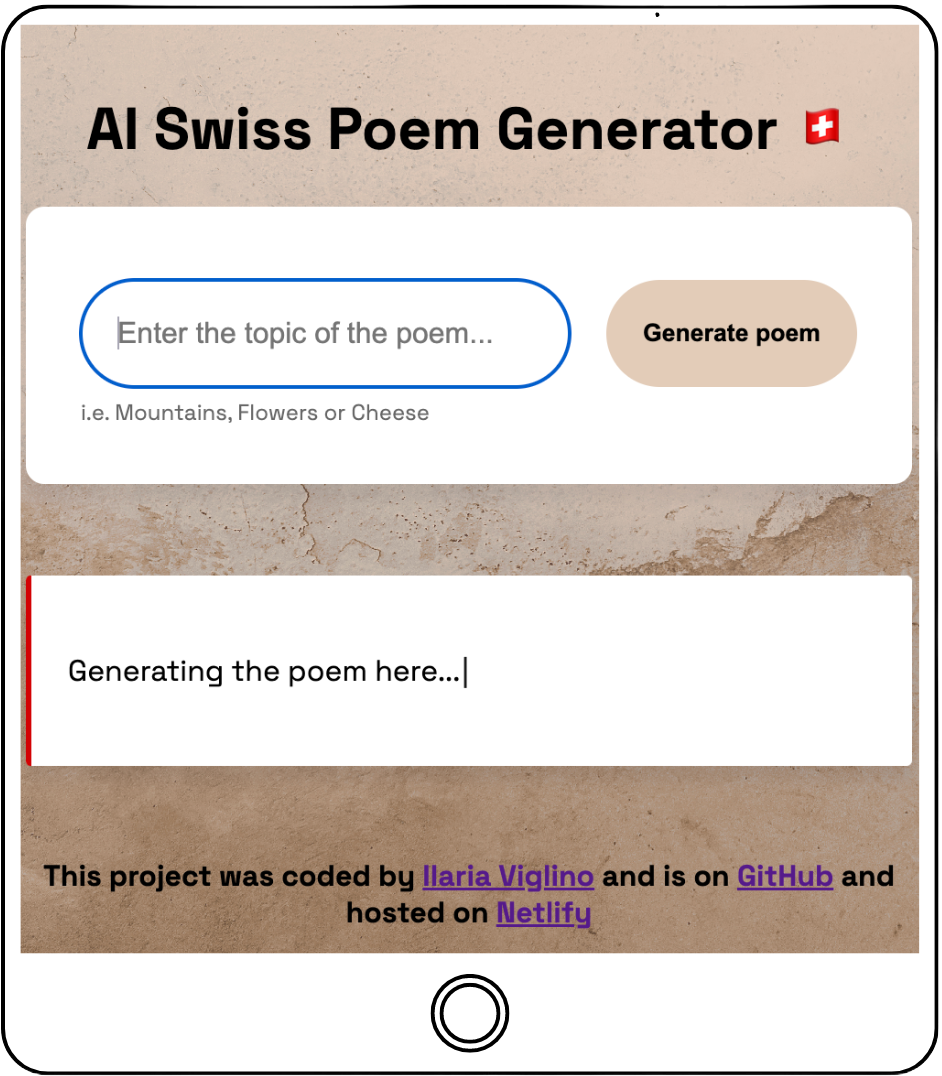
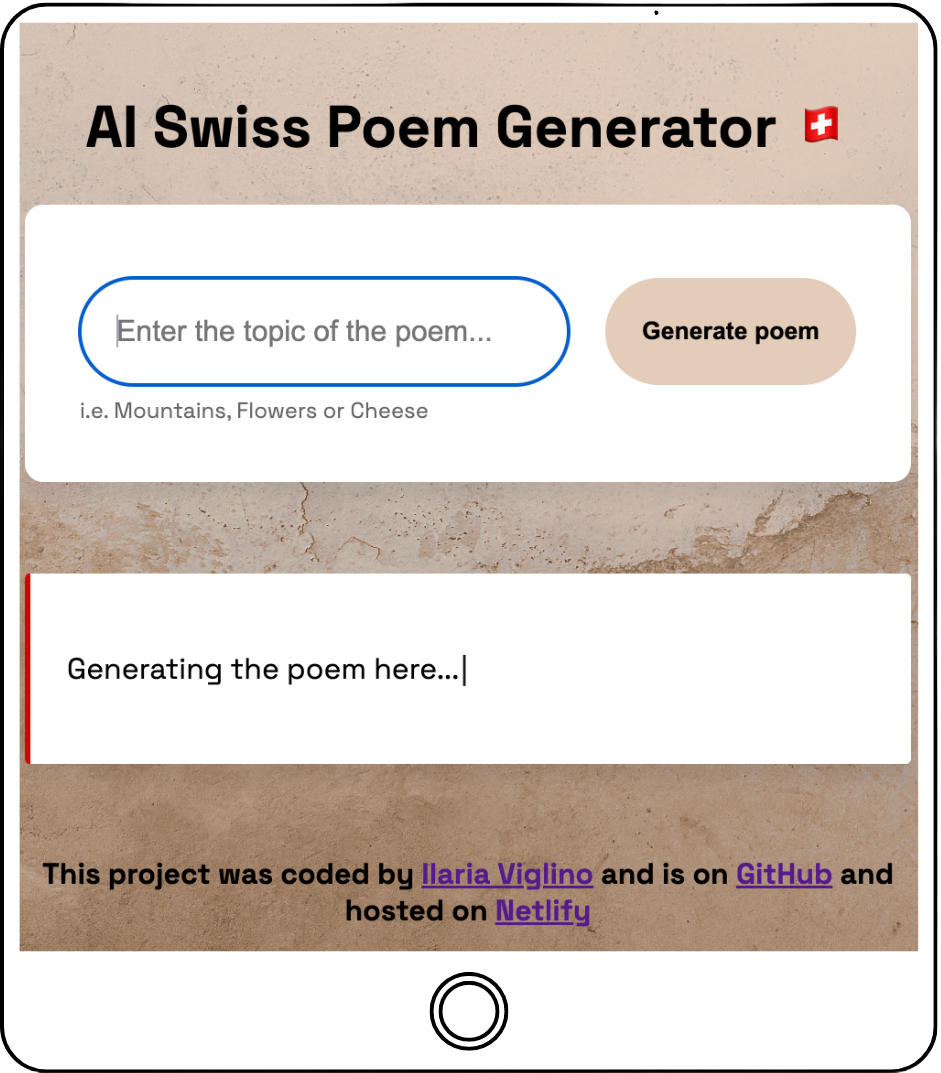
Responsive

diff --git a/index.html b/index.html
@@ -11,14 +11,14 @@
     <link href="https://fonts.googleapis.com/css2?family=Poppins:ital,wght@0,100;0,200;0,300;0,400;0,500;0,600;0,700;0,800;0,900;1,100;1,200;1,300;1,400;1,500;1,600;1,700;1,800;1,900&display=swap" rel="stylesheet">
     <link href="https://cdn.jsdelivr.net/npm/bootstrap@5.3.3/dist/css/bootstrap.min.css" rel="stylesheet" integrity="sha384-QWTKZyjpPEjISv5WaRU9OFeRpok6YctnYmDr5pNlyT2bRjXh0JMhjY6hW+ALEwIH" crossorigin="anonymous">
 <script src="https://cdn.jsdelivr.net/npm/bootstrap@5.3.3/dist/js/bootstrap.bundle.min.js" integrity="sha384-YvpcrYf0tY3lHB60NNkmXc5s9fDVZLESaAA55NDzOxhy9GkcIdslK1eN7N6jIeHz" crossorigin="anonymous"></script>
-    <title>Document</title>
+    <title>Ilaria Viglino - Portfolio</title>
     <link rel="stylesheet" href="style.css"/>
 </head>
 <body>
     <div id="container">
         <nav class="navbar navbar-light navbar-expand-lg bg-faded justify-content-center fixed-top">
             <div class="container-fluid">
-            <a href="#" class="navbar-brand"><img  alt="" src="img/logoNoBackground.png" class="img-fluid " width="40"/>
+            <a href="index.html" class="navbar-brand"><img  alt="" src="img/logoNoBackground.png" class="img-fluid " width="40"/>
             </a>
             <button
           class="navbar-toggler"
@@ -35,23 +35,26 @@
                 
                 <ul class="nav navbar-nav ml-auto w-100 justify-content-end">
                     <li class="nav-item">
-                        <a class="nav-link" href="#">Home</a>
+                        <a class="nav-link" href="index.html">Home</a>
                     </li>
                     <li class="nav-item">
-                        <a class="nav-link" href="#">About</a>
+                        <a class="nav-link" href="about.html">About</a>
                     </li>
                     <li class="nav-item dropdown">
                         <a class="nav-link dropdown-toggle" href="#" role="button" data-bs-toggle="dropdown" aria-expanded="false">
                           My Works
                         </a>
                         <ul class="dropdown-menu">
-                          <li><a class="dropdown-item" href="#">Weather app</a></li>
-                          <li><a class="dropdown-item" href="#">World clock app</a></li>
-                          <li><a class="dropdown-item" href="#">Poem generator</a></li>
+                          <li><a target="_blank" class="dropdown-item" href="https://www.shecodes.io/cohorts/1637/projects/2153183?_gl=1*w052gg*_gcl_aw*R0NMLjE3MTM3OTY0NzEuQ2owS0NRandsWml4QmhDb0FSSXNBSUM3NDVENGtzYjh2M3Vlb2otX0hrcDgxUk9qbVo0dU5JT1h0Zy1jLXhPZzNMVTNsR1RMSU80Z3REVWFBckNDRUFMd193Y0I.*_gcl_au*MTA3MDY1MTczNC4xNzExNzM5NDA2LjIxMDUwNTk4OTUuMTcxMzgwNjQ4OS4xNzEzODA2NDkw"
+                            >Weather app</a></li>
+                          <li><a target="_blank" class="dropdown-item" href="https://www.shecodes.io/cohorts/1752/projects/2175798?_gl=1*1b7ysn2*_gcl_aw*R0NMLjE3MTM3OTY0NzEuQ2owS0NRandsWml4QmhDb0FSSXNBSUM3NDVENGtzYjh2M3Vlb2otX0hrcDgxUk9qbVo0dU5JT1h0Zy1jLXhPZzNMVTNsR1RMSU80Z3REVWFBckNDRUFMd193Y0I.*_gcl_au*MTA3MDY1MTczNC4xNzExNzM5NDA2LjIxMDUwNTk4OTUuMTcxMzgwNjQ4OS4xNzEzODA2NDkw"
+                            >World clock app</a></li>
+                          <li><a target="_blank" class="dropdown-item" href="https://www.shecodes.io/cohorts/1783/projects/2196013?_gl=1*1fwjrbw*_gcl_aw*R0NMLjE3MTM3OTY0NzEuQ2owS0NRandsWml4QmhDb0FSSXNBSUM3NDVENGtzYjh2M3Vlb2otX0hrcDgxUk9qbVo0dU5JT1h0Zy1jLXhPZzNMVTNsR1RMSU80Z3REVWFBckNDRUFMd193Y0I.*_gcl_au*MTA3MDY1MTczNC4xNzExNzM5NDA2LjIxMDUwNTk4OTUuMTcxMzgwNjQ4OS4xNzEzODA2NDkw"
+                            >Poem generator</a></li>
                         </ul>
                       </li>
                     <li class="nav-item">
-                        <a class="nav-link" href="#">Contact</a>
+                        <a class="nav-link" href="contact.html">Contact</a>
                     </li>
                 </ul>
             </div>
@@ -64,32 +67,38 @@
     <h3>Based in Switzerland, EU</h3>
 </header>
 <main>
-<h4 class="text-center">My projects</h4>
+<h4 class="text-center" id="my-projects">My projects</h4>
 <div class="container text-center">
-    <div class="row ">
-      <div class="col col-md-6">
+    <div class="row justify-content-sm-center">
+      <div class="col-12 col-md-6" id="project">
         <div class="text-center mb-4 project-title">The weather app</div>
-       <a href="#" ><img  alt="" src="img/weatherLap.png" class="img-fluid " width=""/></a>
+       <a target="_blank" href="https://www.shecodes.io/cohorts/1637/projects/2153183?_gl=1*w052gg*_gcl_aw*R0NMLjE3MTM3OTY0NzEuQ2owS0NRandsWml4QmhDb0FSSXNBSUM3NDVENGtzYjh2M3Vlb2otX0hrcDgxUk9qbVo0dU5JT1h0Zy1jLXhPZzNMVTNsR1RMSU80Z3REVWFBckNDRUFMd193Y0I.*_gcl_au*MTA3MDY1MTczNC4xNzExNzM5NDA2LjIxMDUwNTk4OTUuMTcxMzgwNjQ4OS4xNzEzODA2NDkw" ><img  alt="" src="img/weatherLap.png" class="img-fluid d-none d-md-block" width=""/></a>
         <p class="mt-4">Lorem ipsum dolor sit amet consectetur adipisicing elit. Perferendis quia, dignissimos nam ratione veniam quibusdam porro.</p>
+        <a target="_blank" href="https://www.shecodes.io/cohorts/1637/projects/2153183?_gl=1*w052gg*_gcl_aw*R0NMLjE3MTM3OTY0NzEuQ2owS0NRandsWml4QmhDb0FSSXNBSUM3NDVENGtzYjh2M3Vlb2otX0hrcDgxUk9qbVo0dU5JT1h0Zy1jLXhPZzNMVTNsR1RMSU80Z3REVWFBckNDRUFMd193Y0I.*_gcl_au*MTA3MDY1MTczNC4xNzExNzM5NDA2LjIxMDUwNTk4OTUuMTcxMzgwNjQ4OS4xNzEzODA2NDkw" ><button id="launch-app-button" class="mx-auto">Launch weather app</button></a>
+    </div>
+      <div class="col-12 col-md-6" id="project">
+        <div class="text-center mb-4 project-title">The world clock app</div>
+        <a target="_blank" href="https://www.shecodes.io/cohorts/1752/projects/2175798?_gl=1*1b7ysn2*_gcl_aw*R0NMLjE3MTM3OTY0NzEuQ2owS0NRandsWml4QmhDb0FSSXNBSUM3NDVENGtzYjh2M3Vlb2otX0hrcDgxUk9qbVo0dU5JT1h0Zy1jLXhPZzNMVTNsR1RMSU80Z3REVWFBckNDRUFMd193Y0I.*_gcl_au*MTA3MDY1MTczNC4xNzExNzM5NDA2LjIxMDUwNTk4OTUuMTcxMzgwNjQ4OS4xNzEzODA2NDkw" > <img  alt="" src="img/worldClockLap.png" class="img-fluid d-none d-md-block" width=""/></a>
+<p class="mt-4">Lorem ipsum dolor sit amet consectetur adipisicing elit. Perferendis quia, dignissimos nam ratione veniam quibusdam porro.</p>
+<a target="_blank" href="https://www.shecodes.io/cohorts/1752/projects/2175798?_gl=1*1b7ysn2*_gcl_aw*R0NMLjE3MTM3OTY0NzEuQ2owS0NRandsWml4QmhDb0FSSXNBSUM3NDVENGtzYjh2M3Vlb2otX0hrcDgxUk9qbVo0dU5JT1h0Zy1jLXhPZzNMVTNsR1RMSU80Z3REVWFBckNDRUFMd193Y0I.*_gcl_au*MTA3MDY1MTczNC4xNzExNzM5NDA2LjIxMDUwNTk4OTUuMTcxMzgwNjQ4OS4xNzEzODA2NDkw" ><button id="launch-app-button" class="mx-auto">Launch world clock app</button></a>
+      
+</div>
+
+    <div class="row justify-content-sm-center"></div>
+      <div class="col-12 col-md-6 mt-md-4" id="project">
+        <div class="text-center mb-4 project-title">The poem generator</div>
+       <div> <a target="_blank" href="https://www.shecodes.io/cohorts/1783/projects/2196013?_gl=1*1fwjrbw*_gcl_aw*R0NMLjE3MTM3OTY0NzEuQ2owS0NRandsWml4QmhDb0FSSXNBSUM3NDVENGtzYjh2M3Vlb2otX0hrcDgxUk9qbVo0dU5JT1h0Zy1jLXhPZzNMVTNsR1RMSU80Z3REVWFBckNDRUFMd193Y0I.*_gcl_au*MTA3MDY1MTczNC4xNzExNzM5NDA2LjIxMDUwNTk4OTUuMTcxMzgwNjQ4OS4xNzEzODA2NDkw"> <img  id="poem-img" src="img/poemIpad.png" class=" img-fluid " width="400"/></a></div>
+        <p class="mt-4">Lorem ipsum dolor sit amet consectetur adipisicing elit. Perferendis quia, dignissimos nam ratione veniam quibusdam porro.</p>
+        <a target="_blank" href="https://www.shecodes.io/cohorts/1783/projects/2196013?_gl=1*1fwjrbw*_gcl_aw*R0NMLjE3MTM3OTY0NzEuQ2owS0NRandsWml4QmhDb0FSSXNBSUM3NDVENGtzYjh2M3Vlb2otX0hrcDgxUk9qbVo0dU5JT1h0Zy1jLXhPZzNMVTNsR1RMSU80Z3REVWFBckNDRUFMd193Y0I.*_gcl_au*MTA3MDY1MTczNC4xNzExNzM5NDA2LjIxMDUwNTk4OTUuMTcxMzgwNjQ4OS4xNzEzODA2NDkw">  <button id="launch-app-button" class="mx-auto">Launch poem generator</button></a>
   
     </div>
-      <div class="col col-md-6">
-        <div class="text-center mb-4 project-title">The world clock app</div>
-        <a href="#" > <img  alt="" src="img/worldClockLap.png" class="img-fluid " width=""/></a>
-<p class="mt-4">Lorem ipsum dolor sit amet consectetur adipisicing elit. Perferendis quia, dignissimos nam ratione veniam quibusdam porro.</p>
-      </div>
-      <div class="col col-md-6 mt-5">
-        <div class="text-center mb-4 project-title">The poem generator</div>
-        <a href="#" > <img  alt="" src="img/poemIpad.png" class="img-fluid " width="400"/></a>
-        <p class="mt-4">Lorem ipsum dolor sit amet consectetur adipisicing elit. Perferendis quia, dignissimos nam ratione veniam quibusdam porro.</p>
 
-      </div>
-      <div class="col col-md-6">
-        <button class="mx-auto">Contact me</button>
+      <div class="col-12 col-md-6">
+       <a class="link-offset-2 link-underline link-underline-opacity-0" target="_blank" href="contact.html"><button id="contact-me-button" class="mx-auto">Contact me</button></a>
       </div>
     </div>
-    
-  </div>
+</div>
+</div>
 
 </main>
 </div>
@@ -97,21 +106,23 @@
 <footer>
    <hr>
    <div class="d-flex justify-content-between" id="container-2">
+
+
     <div class="d-flex justify-content-center" id="social-media-container">
-    <div class="me-5 link"><a href="#"><img  alt="" src="img/logoNoBackground.png" class="img-fluid " width="20"/></a></div>
-      <div class="me-3 link"><a href="#"><img  alt="" src="img/linkedin.png" class="img-fluid " width="25"/></a></div> 
-      <div class="me-3 link"><a href="#"><img  alt="" src="img/github.png" class="img-fluid " width="25"/></a></div> 
-      <div class="me-3 link"><a href="#"><img  alt="" src="img/instagram.png" class="img-fluid " width="25"/></a></div> 
-      <div class="me-3 link"><a href="#"><img  alt="" src="img/facebook.png" class="img-fluid " width="25"/></a></div> 
-      <div class="me-3 link"><a href="#"><img  alt="" src="img/youtube.png" class="img-fluid " width="25"/></a></div> 
-      <div class="link"><a href="#"><img  alt="" src="img/pinterest.png" class="img-fluid " width="25"/></a></div> 
+    <div class="me-5 link"><a href="index.html"><img  alt="" src="img/logoNoBackground.png" class="img-fluid " width="20"/></a></div>
+      <div class="me-3 link"><a target="_blank" href="https://www.linkedin.com/in/ilaria-viglino-604267158/"><img  alt="" src="img/linkedin.png" class="img-fluid " width="25"/></a></div> 
+      <div class="me-3 link"><a target="_blank" href="https://github.com/IlariaViglino"><img  alt="" src="img/github.png" class="img-fluid " width="25"/></a></div> 
+      <div class="me-3 link"><a target="_blank" href="https://www.instagram.com/thrivemathdiy/"><img  alt="" src="img/instagram.png" class="img-fluid " width="25"/></a></div> 
+      <div class="me-3 link"><a target="_blank" href="https://www.facebook.com/ilaria.viglino.1"><img  alt="" src="img/facebook.png" class="img-fluid " width="25"/></a></div> 
+      <div class="me-3 link"><a target="_blank" href="https://www.youtube.com/channel/UCtJDpEPG1I0QvnrMm0N98oQ"><img  alt="" src="img/youtube.png" class="img-fluid " width="25"/></a></div> 
+      <div class="link"><a target="_blank" href="https://ch.pinterest.com/ThriveAndMathDIY/"><img  alt="" src="img/pinterest.png" class="img-fluid " width="25"/></a></div> 
         
     </div>
     <div><ul >
-       <li class="mt-2"> <a  href="#">Home</a></li>
-        <li class="mt-3"><a href="#">About</a></li>
-        <li class="mt-3"><a href="#">My Works</a></li>
-        <li class="mt-3"><a href="#">Contact</a></li>
+       <li class="mt-2"> <a href="index.html">Home</a></li>
+        <li class="mt-3"><a href="about.html">About</a></li>
+        <li class="mt-3"><a href="index.html#my-projects">My Works</a></li>
+        <li class="mt-3"><a href="contact.html">Contact</a></li>
         
       </ul></div>
    </div>

diff --git a/style.css b/style.css
@@ -29,17 +29,6 @@ body{
     background-color: var(--backround-color);
 }
 
-@media screen and (max-width: 640px) {
-   body{ margin-left: 1.5%;
-    margin-right: 1.5%;
-    margin-top: 20px;
-}
-.navbar{
-    
-   margin-left: 1.5%;
-    
-}
-  }
 
 header{
     
@@ -125,8 +114,9 @@ main img{
 main img:hover{
     transform: scale(1.1);
 }
-main button{
-   margin-top: 200px;
+
+main #contact-me-button{
+   margin-top: 150px;
     font-family: "Libre Franklin", sans-serif;
     font-weight: 600;
     font-size: 16px;
@@ -139,11 +129,27 @@ main button{
     background-color: var(--secondary-color);
     transition: all 200ms ease-in-out;
 }
-main button:hover{
+main #contact-me-button:hover{
     background-color: var(--primary-color);
     color: var(--backround-color);
 }
-
+main #launch-app-button{
+    font-family: "Libre Franklin", sans-serif;
+    font-weight: 600;
+    font-size: 12px;
+    color: white;
+    display:block;
+    padding: 10px 20px 10px 20px;
+    border-radius: 24px;
+    border: none;
+    background-color: var(--primary-color);
+    transition: all 200ms ease-in-out;
+}
+main #launch-app-button:hover{
+    background: none;
+    color: var(--secondary-color);
+    text-decoration: underline;
+}
 
 footer{
     margin-top: 80px;
@@ -177,3 +183,73 @@ footer ul a:hover{
 }
 
 
+@media screen and (max-width: 576px) {
+    body{ margin-left: 1.5%;
+     margin-right: 1.5%;
+     margin-top: 20px;
+ }
+ .navbar{
+     
+    margin-left: 1.5%;
+ }
+ #container-2 ul{
+    display: none;
+ }
+ 
+
+   }
+   @media (max-width: 800px){
+    h1{
+        font-size: 45px;
+        
+     }
+     h2{
+        font-size: 35px;
+        margin-top: 10px;
+
+     }
+     h3{
+        margin-top: 10px;
+        font-size: 25px;
+     }
+     
+     #poem-img{
+        display: none;
+    }
+    main #contact-me-button{
+        margin-top: 40px;
+        font-size: 12px;
+        color: white;
+        display:block;
+        height: 85px;
+        width: 85px;
+        border-radius: 50%;
+    }
+    .row #project:hover{
+        border: 3px solid #dea0c1;
+        border-radius: 24px;
+
+        
+    }
+    main #launch-app-button{
+        margin-bottom: 20px;
+    }
+   }
+   @media (max-width:960px){
+    main h4{
+        font-size: 25px;
+        margin-top: 60px;
+        margin-bottom: 20px;
+     }
+     main .project-title{
+        margin-top: 20px;
+        font-size: 20px;
+        
+     }
+   }
+   @media (min-width:800px){
+    main #launch-app-button{
+        display: none;
+    }
+    
+   }

diff --git a/about.html b/about.html
@@ -1,0 +1,11 @@
+<!DOCTYPE html>
+<html lang="en">
+<head>
+    <meta charset="UTF-8">
+    <meta name="viewport" content="width=device-width, initial-scale=1.0">
+    <title>Document</title>
+</head>
+<body>
+    
+</body>
+</html>

diff --git a/contact.html b/contact.html
@@ -1,0 +1,11 @@
+<!DOCTYPE html>
+<html lang="en">
+<head>
+    <meta charset="UTF-8">
+    <meta name="viewport" content="width=device-width, initial-scale=1.0">
+    <title>Document</title>
+</head>
+<body>
+    
+</body>
+</html>
